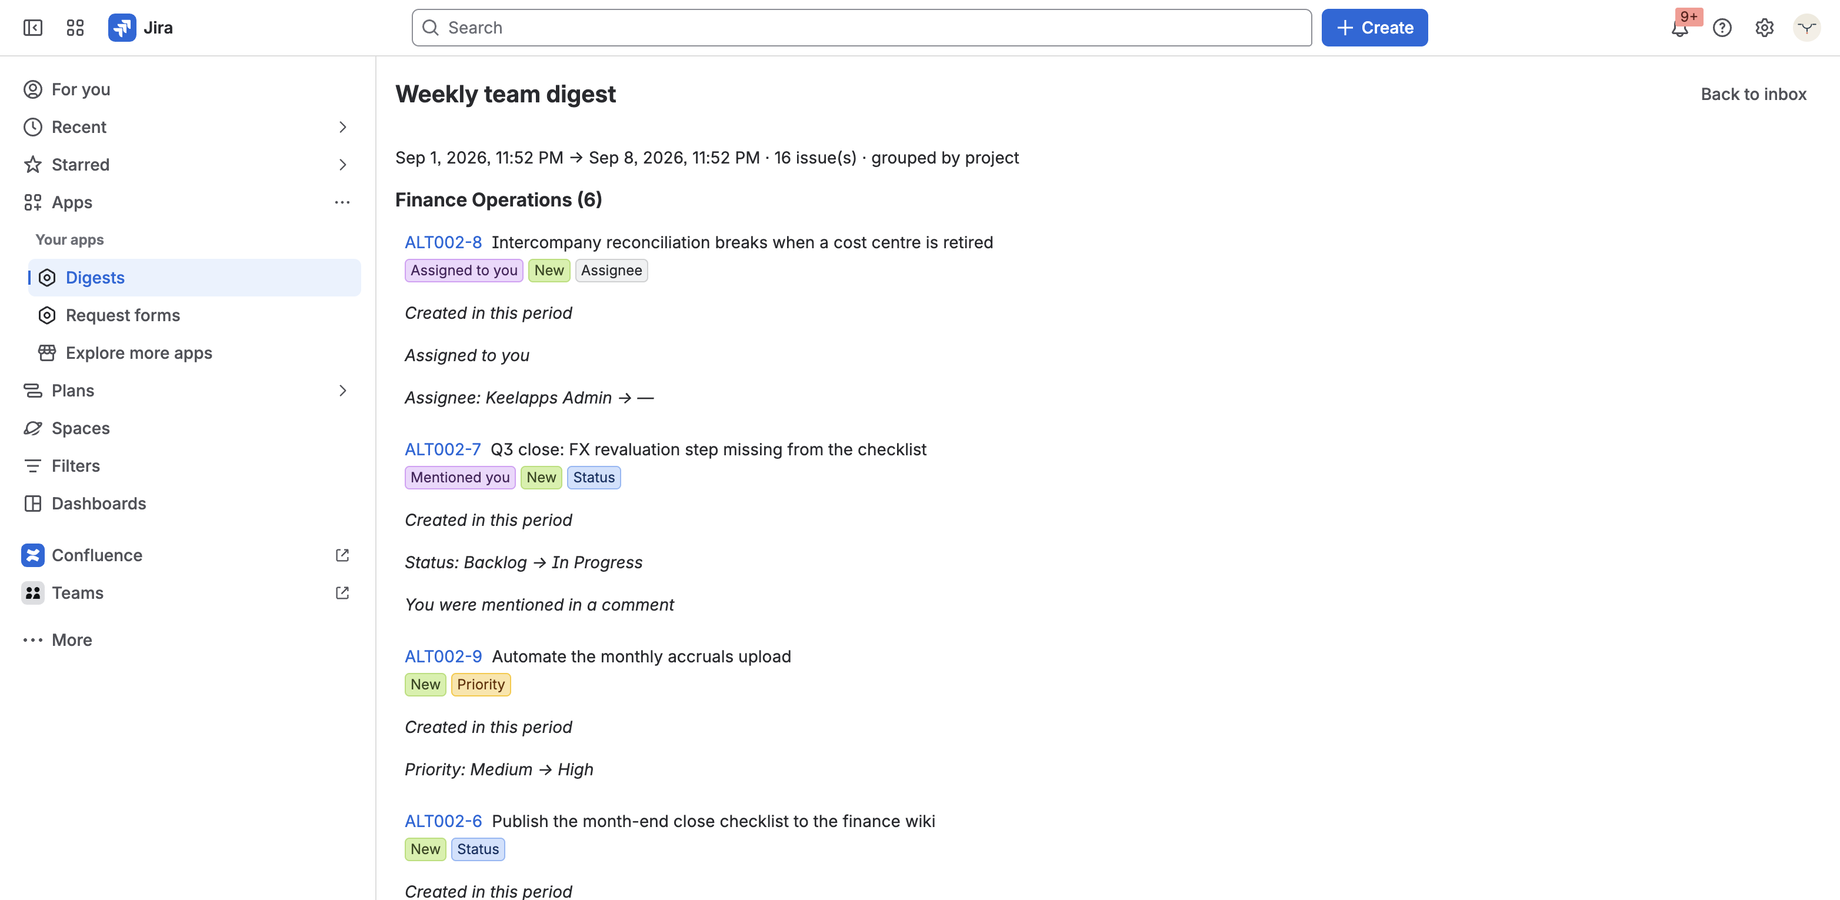
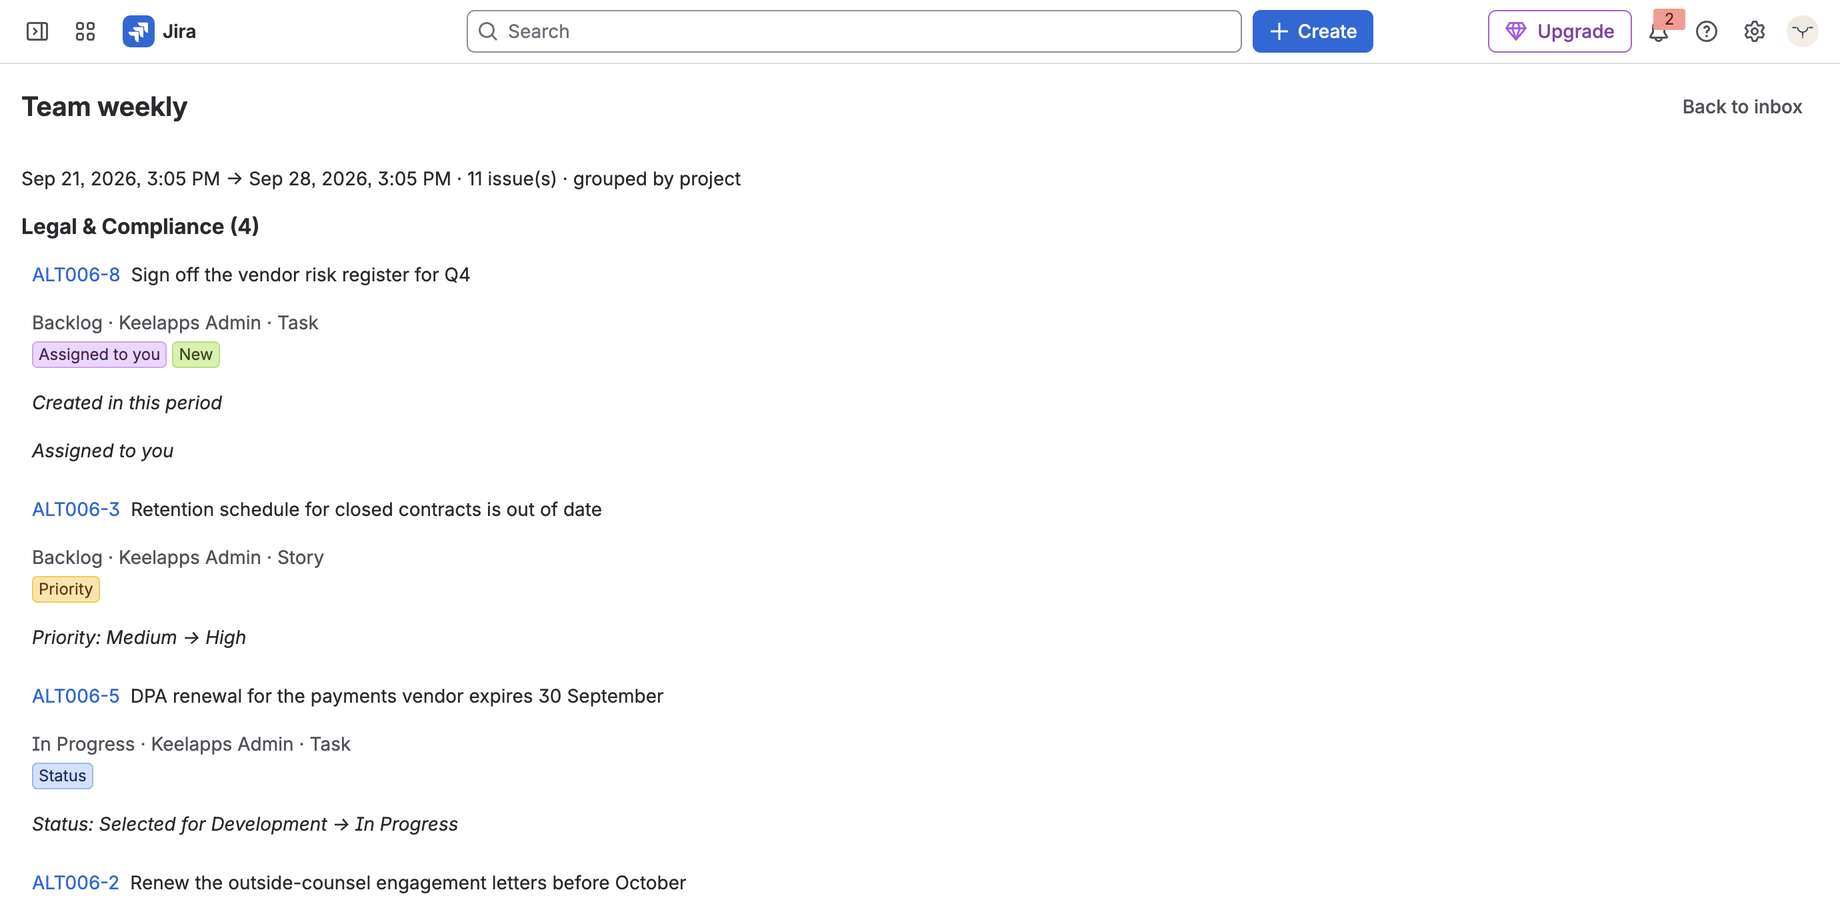
Digest: the 2.3.0 demo (1:01) and pictures from the current release
The video (doZ61iK2j2I) and the poster behind it are re-shot on the 2.3.0
production install: status and assignee on every entry, change lines in
the order they happened, no counts taken as the app in the inbox. The old
poster showed ALT002-8's changes in reverse. The app card is re-cut from
the same capture; make-chrome carried the new length to every card.

diff --git a/digest/index.html b/digest/index.html
@@ -59,8 +59,8 @@
           "description": "Fold a day or a week of Jira changes into one digest: issues created, status transitions, assignments to you, mentions. Read-only scopes, delivered to an in-app inbox you read when you choose.",
           "thumbnailUrl": "https://keelapps.app/assets/screenshots/digest-detail.png",
           "uploadDate": "2026-09-08T14:15:09-07:00",
-          "duration": "PT1M6S",
-          "embedUrl": "https://www.youtube-nocookie.com/embed/KHOlyPU0Ipo"
+          "duration": "PT1M1S",
+          "embedUrl": "https://www.youtube-nocookie.com/embed/doZ61iK2j2I"
         }
       }
     </script>
@@ -130,7 +130,7 @@
               Atlassian — <a href="https://marketplace.atlassian.com/apps/978618646/digest-daily-weekly-summaries-for-jira?tab=pricing">see pricing on the Marketplace</a>.
             </p>
             <p class="intro__note">No egress. Read-only scopes — nothing leaves your Atlassian tenant.</p>
-            <a class="intro__demo" href="#demo"><svg viewBox="0 0 10 10" aria-hidden="true"><path d="M2 1.2 8.6 5 2 8.8Z" fill="currentColor" /></svg>Watch the 1:06 demo</a>
+            <a class="intro__demo" href="#demo"><svg viewBox="0 0 10 10" aria-hidden="true"><path d="M2 1.2 8.6 5 2 8.8Z" fill="currentColor" /></svg>Watch the 1:01 demo</a>
           </div>
         </div>
         <dl class="facts">
@@ -144,8 +144,8 @@
       <figure class="showcase" id="demo">
         <iframe
           class="showcase__player"
-          src="https://www.youtube-nocookie.com/embed/KHOlyPU0Ipo"
-          srcdoc="<style>*{margin:0;padding:0}html,body{height:100%;overflow:hidden;background:#0F2536}a{display:block;height:100%;position:relative}img{display:block;width:100%;height:100%;object-fit:cover}span{position:absolute;inset:0;margin:auto;width:5rem;height:5rem;border-radius:50%;background:rgba(15,37,54,.86);color:#F4EFE6;display:grid;place-items:center;font:2rem/1 sans-serif}a:hover span{background:rgba(15,37,54,1)}</style><a href='https://www.youtube-nocookie.com/embed/KHOlyPU0Ipo?autoplay=1' aria-label='Play the Digest product demo'><img src='/assets/screenshots/digest-detail.png' alt=''><span>&#9654;</span></a>"
+          src="https://www.youtube-nocookie.com/embed/doZ61iK2j2I"
+          srcdoc="<style>*{margin:0;padding:0}html,body{height:100%;overflow:hidden;background:#0F2536}a{display:block;height:100%;position:relative}img{display:block;width:100%;height:100%;object-fit:cover}span{position:absolute;inset:0;margin:auto;width:5rem;height:5rem;border-radius:50%;background:rgba(15,37,54,.86);color:#F4EFE6;display:grid;place-items:center;font:2rem/1 sans-serif}a:hover span{background:rgba(15,37,54,1)}</style><a href='https://www.youtube-nocookie.com/embed/doZ61iK2j2I?autoplay=1' aria-label='Play the Digest product demo'><img src='/assets/screenshots/digest-detail.png' alt=''><span>&#9654;</span></a>"
           width="1840"
           height="900"
           title="Digest for Jira — fold a week of changes into one summary (product demo)"
@@ -156,7 +156,7 @@
         ></iframe>
         <figcaption>
           One week folded into one page: what was created, what changed, what was assigned to you.
-          <a href="https://www.youtube.com/watch?v=KHOlyPU0Ipo">Watch on YouTube</a>.
+          <a href="https://www.youtube.com/watch?v=doZ61iK2j2I">Watch on YouTube</a>.
         </figcaption>
       </figure>
 

diff --git a/accesslens/index.html b/accesslens/index.html
@@ -331,7 +331,7 @@
             <p class="app-card__name">Digest for Jira</p>
             <p class="app-card__links">
               <a href="/digest/">Product page</a>
-              <a href="/digest/#demo"><svg viewBox="0 0 10 10" aria-hidden="true"><path d="M2 1.2 8.6 5 2 8.8Z" fill="currentColor" /></svg>Demo 1:06</a>
+              <a href="/digest/#demo"><svg viewBox="0 0 10 10" aria-hidden="true"><path d="M2 1.2 8.6 5 2 8.8Z" fill="currentColor" /></svg>Demo 1:01</a>
               <a href="/digest/docs/">Docs</a>
             </p>
           </li>

diff --git a/index.html b/index.html
@@ -180,7 +180,7 @@
             <p class="app-card__name">Digest for Jira</p>
             <p class="app-card__links">
               <a href="/digest/">Product page</a>
-              <a href="/digest/#demo"><svg viewBox="0 0 10 10" aria-hidden="true"><path d="M2 1.2 8.6 5 2 8.8Z" fill="currentColor" /></svg>Demo 1:06</a>
+              <a href="/digest/#demo"><svg viewBox="0 0 10 10" aria-hidden="true"><path d="M2 1.2 8.6 5 2 8.8Z" fill="currentColor" /></svg>Demo 1:01</a>
               <a href="/digest/docs/">Docs</a>
             </p>
           </li>

diff --git a/mail-templates/index.html b/mail-templates/index.html
@@ -386,7 +386,7 @@
             <p class="app-card__name">Digest for Jira</p>
             <p class="app-card__links">
               <a href="/digest/">Product page</a>
-              <a href="/digest/#demo"><svg viewBox="0 0 10 10" aria-hidden="true"><path d="M2 1.2 8.6 5 2 8.8Z" fill="currentColor" /></svg>Demo 1:06</a>
+              <a href="/digest/#demo"><svg viewBox="0 0 10 10" aria-hidden="true"><path d="M2 1.2 8.6 5 2 8.8Z" fill="currentColor" /></svg>Demo 1:01</a>
               <a href="/digest/docs/">Docs</a>
             </p>
           </li>

diff --git a/prefill/index.html b/prefill/index.html
@@ -417,7 +417,7 @@
             <p class="app-card__name">Digest for Jira</p>
             <p class="app-card__links">
               <a href="/digest/">Product page</a>
-              <a href="/digest/#demo"><svg viewBox="0 0 10 10" aria-hidden="true"><path d="M2 1.2 8.6 5 2 8.8Z" fill="currentColor" /></svg>Demo 1:06</a>
+              <a href="/digest/#demo"><svg viewBox="0 0 10 10" aria-hidden="true"><path d="M2 1.2 8.6 5 2 8.8Z" fill="currentColor" /></svg>Demo 1:01</a>
               <a href="/digest/docs/">Docs</a>
             </p>
           </li>

diff --git a/recur/index.html b/recur/index.html
@@ -339,7 +339,7 @@
             <p class="app-card__name">Digest for Jira</p>
             <p class="app-card__links">
               <a href="/digest/">Product page</a>
-              <a href="/digest/#demo"><svg viewBox="0 0 10 10" aria-hidden="true"><path d="M2 1.2 8.6 5 2 8.8Z" fill="currentColor" /></svg>Demo 1:06</a>
+              <a href="/digest/#demo"><svg viewBox="0 0 10 10" aria-hidden="true"><path d="M2 1.2 8.6 5 2 8.8Z" fill="currentColor" /></svg>Demo 1:01</a>
               <a href="/digest/docs/">Docs</a>
             </p>
           </li>
